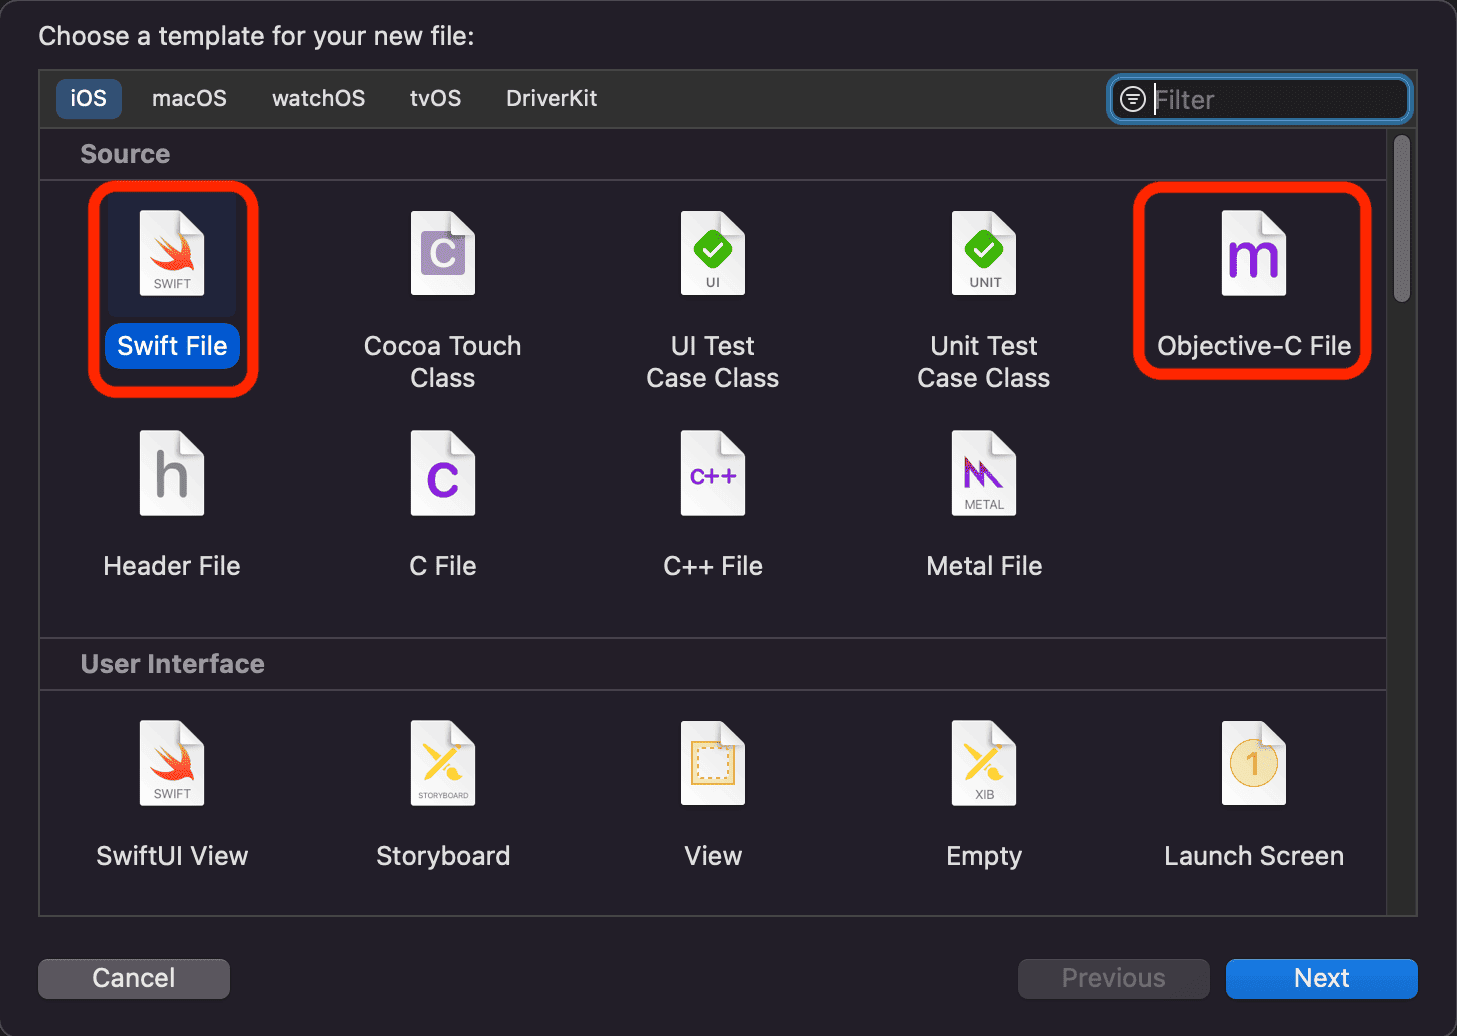
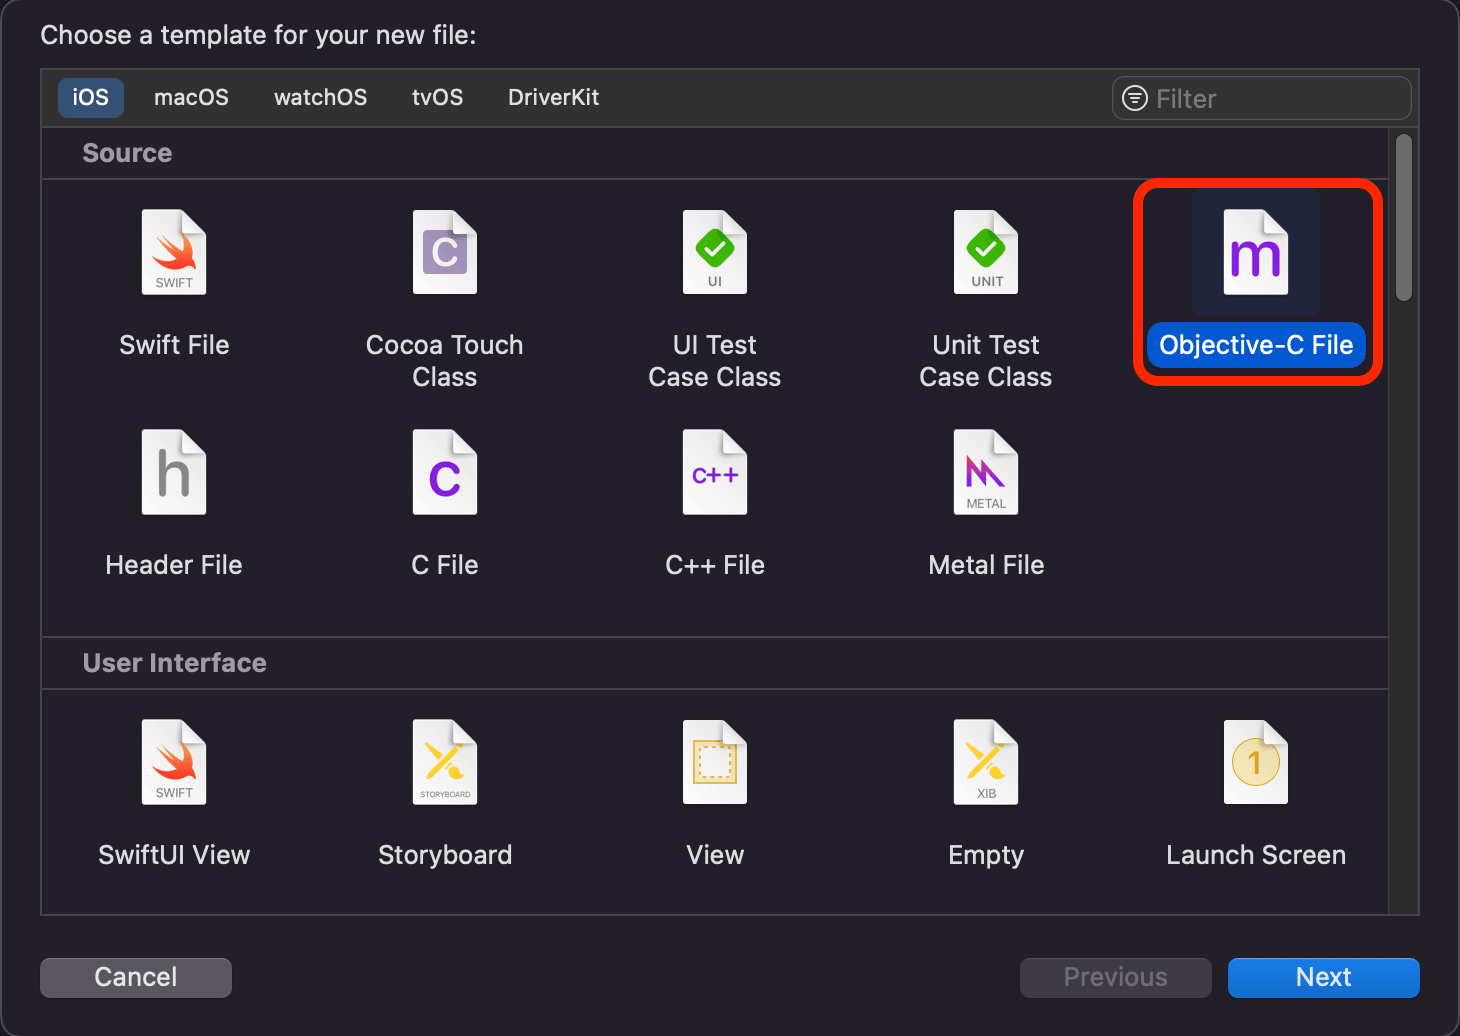
Update structure of bridging header doc

diff --git a/mddocs/quickstart_ve_ios.md b/mddocs/quickstart_ve_ios.md
@@ -28,34 +28,47 @@ Please make sure all these resources are provided in your project.
 ## Configuration
 
 > [!IMPORTANT]  
-> Check if the file [YourProject-Bridging-Header.h](../ios/BridgeHeader.h) is exist in your React Native project by the path YourProject/ios.
+> Check if the file [YourProject-Bridging-Header.h](../ios/BridgeHeader.h) exists in your React Native project in the ```ios``` folder.
 
-### Add YourProject-Brdging-Header.h
+Add [VE-Sample-Bridging-Header.h](../ios/BridgeHeader.h) and [SdkEditorModuleBridge.m](../ios/SdkEditorModuleBridge.m) files for communication between React Native and iOS
+and [SdkEditorModule.swift](../ios/SdkEditorModule.swift) file to initialize the SDK dependencies. This class also allows you to customize many Video and Photo Editor SDK features i.e.
+min/max video durations, export flow, order of effects and others.
 
-> [!NOTE]  
-> If you have [YourProject-Bridging-Header.h](../ios/BridgeHeader.h) file in your React Native project, you can [skip this step](#add-configuration-files).
+### Add YourProject-Bridging-Header.h file
 
-To add [YourProject-Bridging-Header.h](../ios/BridgeHeader.h) in your React Native project please follow the steps below:
+#### Create a new Bridging-Header.h file
 
-1) Open your iOS project in Xcode.
-2) Create a new Swift file in your project by following the path ```File -> New -> File```:<br><img src="./assets/images/screenshot_1.png" alt="Adding a new Swift file s_1" width="30%">
-3) Choose ```Swift file``` and click ```Next```:<br><img src="./assets/images/screenshot_2.png" alt="Adding a new Swift file s_2" width="30%">
-4) Click ``Create``:<br><img src="./assets/images/screenshot_3.png" alt="Adding a new Swift file s_3" width="30%">
-5) Xcode will suggest you to configure an Objective-C bridging Header. Click ```Create Bridging Header```:<br><img src="./assets/images/screenshot_4.png" alt="Adding a new Swift file s_4" width="30%">
+To create [YourProject-Bridging-Header.h](../ios/BridgeHeader.h), open your iOS project in Xcode and follow the steps below:
 
-### Add configuration files
+1) Create a new empty Swift file in your project by following the path ```File -> New -> File```:<br><img src="./assets/images/screenshot_1.png" alt="Adding a new Swift file s_1" width="30%">
+2) Choose ```Swift file``` and click ```Next```:<br><img src="./assets/images/screenshot_2.png" alt="Adding a new Swift file s_2" width="30%">
+3) Click ``Create``:<br><img src="./assets/images/screenshot_3.png" alt="Adding a new Swift file s_3" width="30%">
+4) Xcode will suggest you to configure an Objective-C bridging Header. Click ```Create Bridging Header```:<br><img src="./assets/images/screenshot_4.png" alt="Adding a new Swift file s_4" width="30%">
+5) Copy [VE-Sample-Bridging-Header.h](../ios/BridgeHeader.h) to your ```YourProject-Bridging-Header.h```.
 
-1) Open your iOS project in Xcode. 
-2) Copy and paste the code from [BridgeHeader.h](../ios/BridgeHeader.h) to your ```YourProject-Bridging-Header.h``` file.
-3) [Create](#how-do-i-create-a-file-in-xcode) the [SdkEditorModuleBridge.m](../ios/SdkEditorModuleBridge.m) file for communication between React Native and iOS. 
-4) Create the [SdkEditorModule.swift](../ios/SdkEditorModule.swift) file to initialize the SDK dependencies. This class also allows you to customize many Video and Photo Editor SDK features i.e. min/max video durations, export flow, order of effects and others.
+#### Add to existing YourProject-Bridging-Header.h
 
-### How do I create a file in Xcode?
+1) Copy [VE-Sample-Bridging-Header.h](../ios/BridgeHeader.h) to your ```YourProject-Bridging-Header.h```.
 
-To create files please follow the steps below:  
-1) Create a new Swift file in your project by following the path ```File -> New -> File```: <br><img src="./assets/images/screenshot_1.png" alt="Adding a new Swift file s_1.1" width="30%">
-2) Choose the format of the file that you need and click ```Next```: <br><img src="./assets/images/screenshot_5.png" alt="Adding a new Swift file s_5" width="30%">
-3) Click ```Create```:<br><img src="./assets/images/screenshot_3.png" alt="Adding a new Swift file s_3.1" width="30%">
+### Add SdkEditorModule.swift file
+
+1) Create a new Swift file in your project by following the path ```File -> New -> File```:<br><img src="./assets/images/screenshot_1.png" alt="Adding a new Swift file s_1" width="30%">
+2) Choose ```Swift file``` and click ```Next```:<br><img src="./assets/images/screenshot_2.png" alt="Adding a new Swift file s_2" width="30%">
+3) Set the name ```SdkEditorModule``` and click ``Create``:<br><img src="./assets/images/screenshot_3.png" alt="Adding a new Swift file s_3" width="30%">
+4) Copy [SdkEditorModule.swift](../ios/SdkEditorModule.swift) to your ```SdkEditorModule```.
+
+### Add SdkEditorModuleBridge.m file
+
+#### Create a new SdkEditorModuleBridge.m file
+
+1) Create a new empty .m file in your project by following the path ```File -> New -> File```:<br><img src="./assets/images/screenshot_1.png" alt="Adding a new Swift file s_1" width="30%">
+2) Choose ```Objective-C file``` and click ```Next```:<br><img src="./assets/images/screenshot_5.png" alt="Adding a new Swift file s_5" width="30%">
+3) Set the name of the file and click ```Next```:<br><img src="./assets/images/screenshot_3.png" alt="Adding a new Swift file s_3" width="30%"><br>On the next view click ```Create```.
+4) Copy [SdkEditorModuleBridge.m](../ios/SdkEditorModuleBridge.m) to your ```SdkEditorModuleBridge.m```.
+
+#### Add to existing SdkEditorModuleBridge.m file
+
+1) Copy [SdkEditorModuleBridge.m](../ios/SdkEditorModuleBridge.m) to your ```SdkEditorModuleBridge.m```
 
 ## Launch
 
